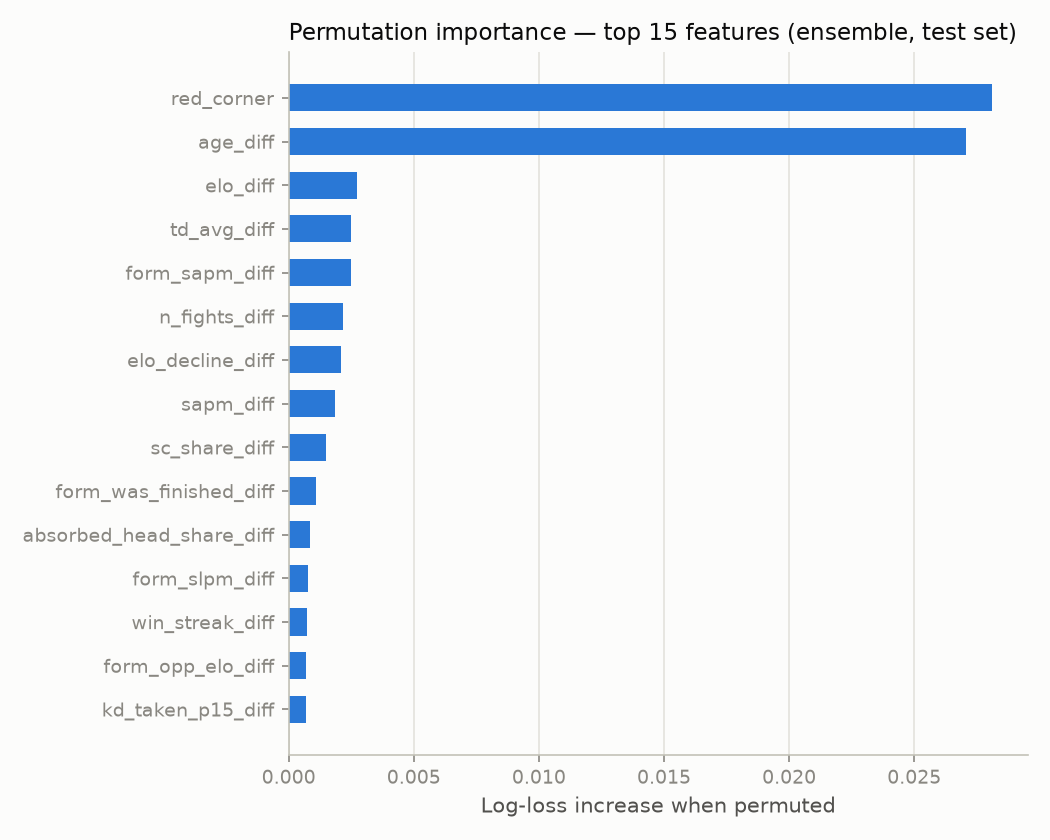
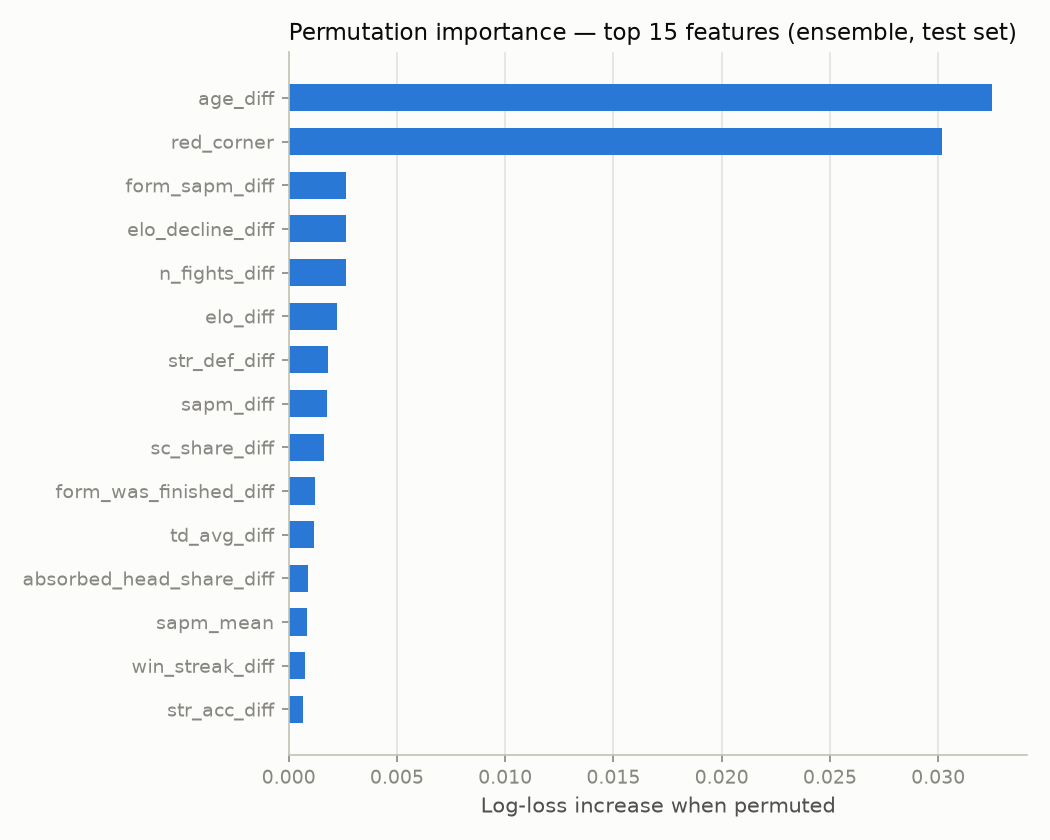
Auto-retrain report 2026-09-13

diff --git a/report.md b/report.md
@@ -2,7 +2,7 @@
 
 Generated by `train_report.py`. Seeds fixed (42); strict temporal validation.
 
-**Data:** 8302 UFC fights 2003-02-28 to 2026-08-29,
+**Data:** 8316 UFC fights 2003-02-28 to 2026-09-05,
 102 features computed strictly as-of fight date by replaying career
 histories (`build_features.py`): records, Elo (finish-weighted), per-minute
 striking/grappling rates, strike-target and position mixes, recent-form windows
@@ -10,39 +10,39 @@ striking/grappling rates, strike-target and position mixes, recent-form windows
 decline, layoffs, weight-class changes), rankings, and physical attributes.
 
 **Split:** train ≤ 2023-06-03 (6650 fights), test after
-(1652 fights). LightGBM (best (15, 0.03, 60), cv 0.6539) and XGBoost
-(best (4, 0.03, 5, 0.8, 0.6, 5), cv 0.6549) tuned with 4-fold expanding-window CV inside
+(1666 fights). LightGBM (best (31, 0.06, 20), cv 0.6547) and XGBoost
+(best (4, 0.03, 5, 0.8, 0.6, 5), cv 0.6560) tuned with 4-fold expanding-window CV inside
 the train period. The stacking combiner, isotonic calibrator, and market blend
 were all fitted on out-of-fold CV predictions only. The LightGBM component
 is a 5-seed bag (adopted Phase 9: CV logloss 0.6571 -> 0.6535). Stack weights
-(LGB, XGB, logistic): [0.6, 0.1, 0.15].
+(LGB, XGB, logistic): [0.63, 0.14, 0.17].
 
-## Model comparison — full test set (1652 fights)
+## Model comparison — full test set (1666 fights)
 
 | Predictor | n | Accuracy | Log loss | Brier | ECE |
 |---|---|---|---|---|---|
-| Stacked ensemble (LGB+XGB+logistic) | 1652 | 0.632 | 0.642 | 0.225 | 0.026 |
-| Ensemble + isotonic | 1652 | 0.630 | 0.644 | 0.226 | 0.036 |
-| LightGBM | 1652 | 0.630 | 0.643 | 0.225 | 0.026 |
-| XGBoost | 1652 | 0.628 | 0.644 | 0.226 | 0.036 |
-| Logistic regression (full features) | 1652 | 0.613 | 0.649 | 0.229 | 0.052 |
-| Elo only (logistic) | 1652 | 0.569 | 0.674 | 0.241 | 0.049 |
+| Stacked ensemble (LGB+XGB+logistic) | 1666 | 0.621 | 0.644 | 0.227 | 0.025 |
+| Ensemble + isotonic | 1666 | 0.623 | 0.652 | 0.229 | 0.031 |
+| LightGBM | 1666 | 0.628 | 0.648 | 0.228 | 0.028 |
+| XGBoost | 1666 | 0.630 | 0.644 | 0.226 | 0.038 |
+| Logistic regression (full features) | 1666 | 0.612 | 0.649 | 0.229 | 0.051 |
+| Elo only (logistic) | 1666 | 0.567 | 0.675 | 0.241 | 0.046 |
 
 ## The real benchmark — vig-removed closing odds (1182 test fights with odds)
 
 | Predictor | n | Accuracy | Log loss | Brier | ECE |
 |---|---|---|---|---|---|
 | Market (no-vig closing odds) | 1182 | 0.702 | 0.582 | 0.199 | 0.033 |
-| Stacked ensemble | 1182 | 0.646 | 0.631 | 0.220 | 0.035 |
-| Blend: market + model | 1182 | 0.705 | 0.577 | 0.197 | 0.022 | logit blend, model coef=+0.288
+| Stacked ensemble | 1182 | 0.632 | 0.633 | 0.221 | 0.037 |
+| Blend: market + model | 1182 | 0.704 | 0.577 | 0.197 | 0.025 | logit blend, model coef=+0.303
 
-**Does the model beat the market?** No. The market's log loss (0.582) beats the model's (0.631).
+**Does the model beat the market?** No. The market's log loss (0.582) beats the model's (0.633).
 
 **Does the model add information beyond the market?** Yes —
 blending model with market gives log loss 0.577 vs 0.582 for the
 market alone. Paired bootstrap on the log-loss difference (market − blend,
-10,000 resamples): 95% CI [+0.0009, +0.0095], blend better in
-99.1% of resamples.
+10,000 resamples): 95% CI [+0.0006, +0.0093], blend better in
+98.7% of resamples.
 
 This is the expected result for public pre-fight data: closing odds aggregate
 sharp bettors' information (injuries, camp changes, weight-cut issues, insider
@@ -57,15 +57,15 @@ the training-set class frequencies:
 
 | Target | Model | Baseline |
 |---|---|---|
-| 6-way outcome log loss | 1.598 | 1.715 (freq) — per-class isotonic REJECTED (2.013) |
-| 6-way LL, method-odds subset (n=1105) — model / blend w=0.9 | 1.531 | 1.584 (model alone) |
-| 6-way outcome top-1 accuracy | 0.339 | 0.239 |
-| Goes the distance — Brier (dedicated model) | 0.245 | 0.235 (6-way-derived) |
-| Goes the distance — accuracy | 0.593 | 0.503 (majority class) |
-| Under 2.5 rounds (3R fights) — Brier | 0.236 | 0.249 (predict base rate) |
+| 6-way outcome log loss | 1.602 | 1.715 (freq) — per-class isotonic REJECTED (2.211) |
+| 6-way LL, method-odds subset (n=1105) — model / blend w=0.8 | 1.527 | 1.588 (model alone) |
+| 6-way outcome top-1 accuracy | 0.332 | 0.239 |
+| Goes the distance — Brier (dedicated model) | 0.239 | 0.235 (6-way-derived) |
+| Goes the distance — accuracy | 0.597 | 0.503 (majority class) |
+| Under 2.5 rounds (3R fights) — Brier | 0.237 | 0.249 (predict base rate) |
 | Fighter sig over 24.5 — Brier (duration-aware) | 0.219 | 0.232 (base rate) |
 | Fighter td over 0.5 — Brier (duration-aware) | 0.219 | 0.245 (base rate) |
-| Total takedowns — MAE | 1.67 | 1.81 (train mean) |
+| Total takedowns — MAE | 1.68 | 1.82 (train mean) |
 
 Method-of-victory and distance predictions beat the frequency baselines but,
 as with the winner model, should be assumed weaker than prop-market prices —
@@ -75,7 +75,7 @@ and prop markets carry roughly twice the vig of moneylines.
 
 ![Reliability diagram](plots/reliability.png)
 
-ECE (10 equal-count bins): model 0.035, market 0.033.
+ECE (10 equal-count bins): model 0.037, market 0.033.
 Isotonic calibration is reported for completeness; the raw ensemble is already
 close to calibrated.
 
@@ -86,16 +86,16 @@ close to calibrated.
 Top 10 by permutation importance (mean log-loss increase over 3 shuffles,
 through the full ensemble):
 
-- `red_corner`: +0.0281
-- `age_diff`: +0.0271
-- `elo_diff`: +0.0027
-- `td_avg_diff`: +0.0025
-- `form_sapm_diff`: +0.0025
-- `n_fights_diff`: +0.0022
-- `elo_decline_diff`: +0.0021
-- `sapm_diff`: +0.0019
-- `sc_share_diff`: +0.0015
-- `form_was_finished_diff`: +0.0011
+- `age_diff`: +0.0325
+- `red_corner`: +0.0302
+- `form_sapm_diff`: +0.0027
+- `elo_decline_diff`: +0.0027
+- `n_fights_diff`: +0.0026
+- `elo_diff`: +0.0022
+- `str_def_diff`: +0.0018
+- `sapm_diff`: +0.0018
+- `sc_share_diff`: +0.0016
+- `form_was_finished_diff`: +0.0012
 
 ## Negative results (tried and rejected)
 
@@ -169,7 +169,7 @@ tau=5y improved CV by only 0.0017, under the pre-registered 0.002 gate).
   fighter's UFC record. ESPN's totals are CURRENT, so only this static
   pre-UFC delta is used — the current total would leak. 98% of fighters
   matched; the rest get 0-0. Elo still starts at 1500 on UFC debut.
-- Odds are closing odds from the Ultimate UFC Dataset (1182/1652
+- Odds are closing odds from the Ultimate UFC Dataset (1182/1666
   test fights matched); fights without odds are excluded only from market rows.
 - Rankings exist only for ranked fighters and only from 2013 (when UFC rankings
   began); missing values are left as NaN for the tree models.
